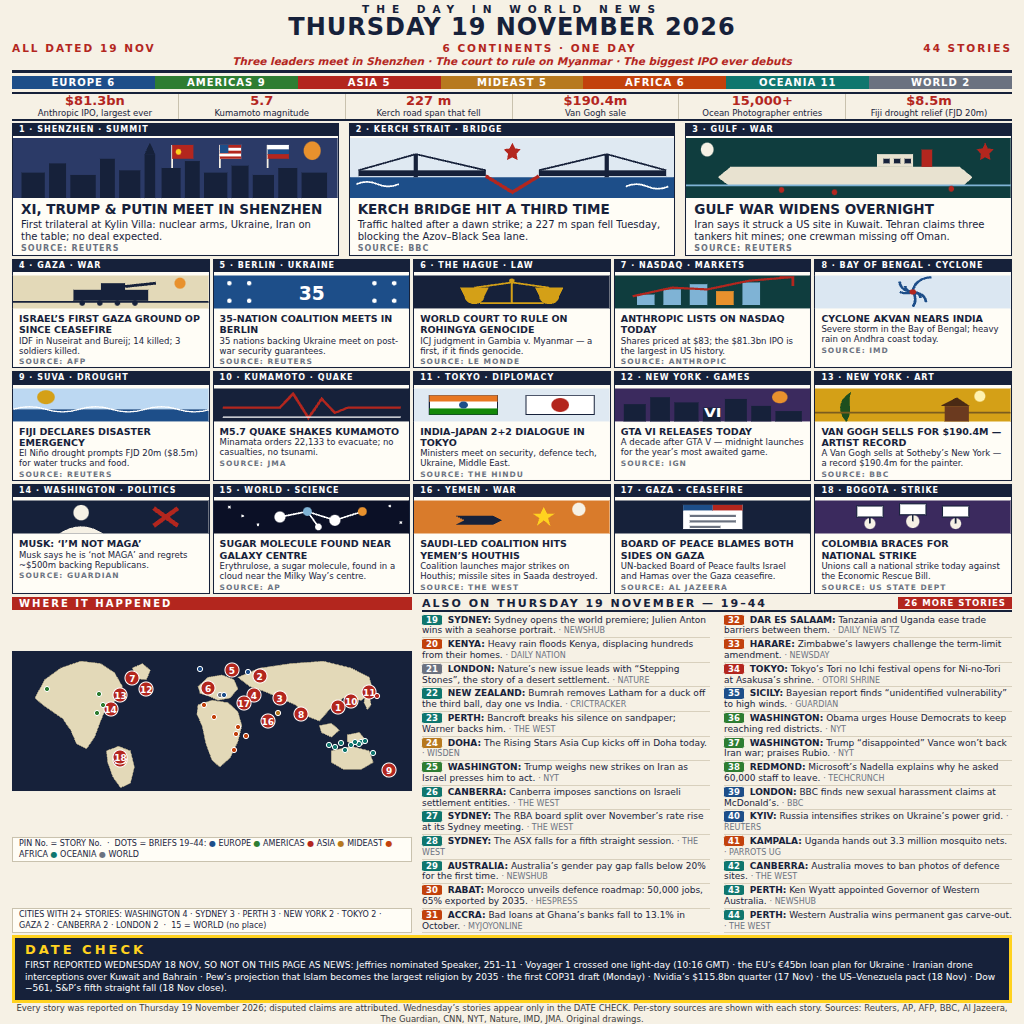
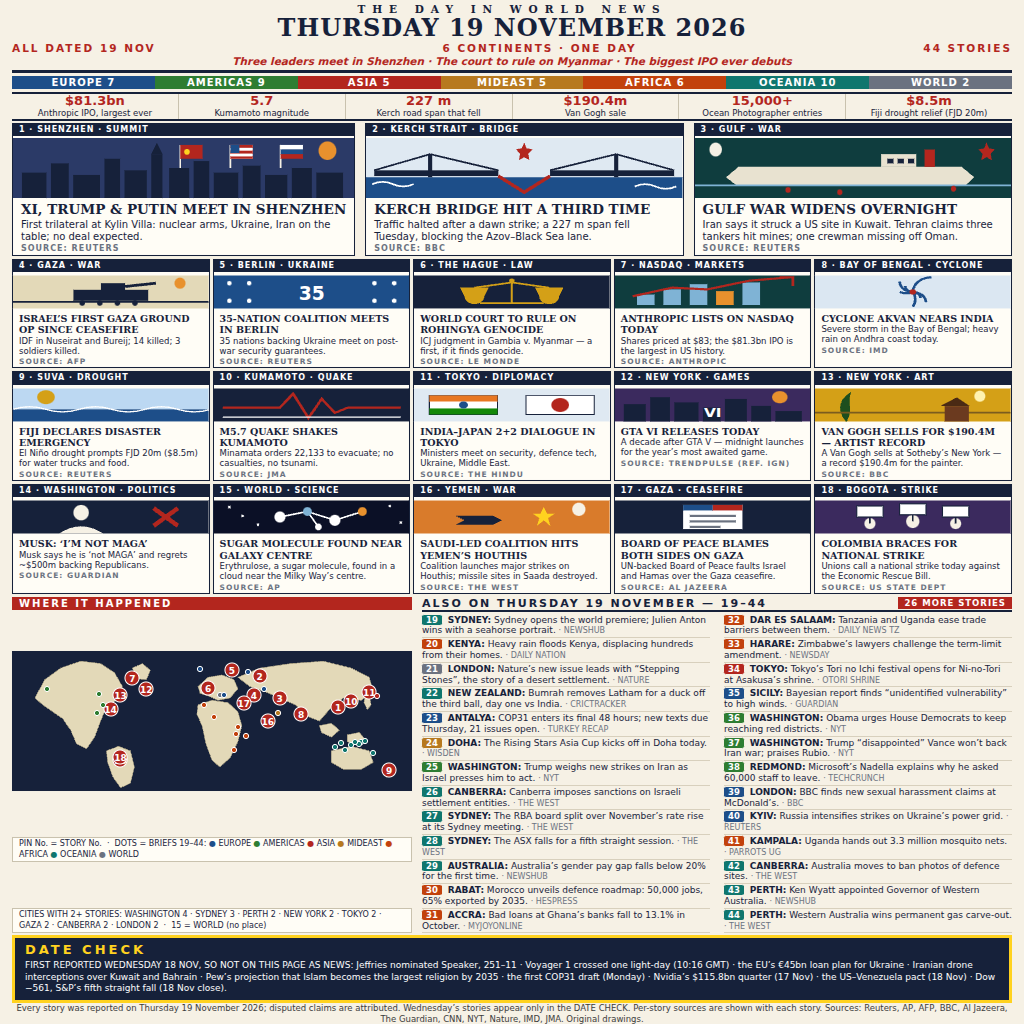
rev-9: COP31 in for brief #23 (Antalya), card 12 source TrendPulse (ref. IGN), serif headlines

diff --git a/render.html b/render.html
@@ -6,6 +6,7 @@
 <style>
 * { margin:0; padding:0; box-sizing:border-box; }
 body { width:1024px; height:1024px; background:#f6f1e5; color:#16213a; font-family:"DejaVu Sans",Arial,sans-serif; padding:3px 12px 1px; }
+.kicker, h1.date, .lead h2, .feat h3 { font-family:"DejaVu Serif", Georgia, "Times New Roman", serif; }
 .masthead { text-align:center; border-bottom:3px solid #16213a; padding-bottom:3px; }
 .kicker { font-size:10.5px; letter-spacing:7px; font-weight:bold; }
 h1.date { font-size:24px; line-height:1.05; letter-spacing:1px; font-weight:900; }
@@ -62,7 +63,7 @@ h1.date { font-size:24px; line-height:1.05; letter-spacing:1px; font-weight:900;
   <div class="subtitle">Three leaders meet in Shenzhen &middot; The court to rule on Myanmar &middot; The biggest IPO ever debuts</div>
 </div>
 
-<div class="regions"><span style="background:#1d4e89">EUROPE 6</span><span style="background:#2e7d32">AMERICAS 9</span><span style="background:#b3261e">ASIA 5</span><span style="background:#b7791f">MIDEAST 5</span><span style="background:#c2410c">AFRICA 6</span><span style="background:#0f766e">OCEANIA 11</span><span style="background:#6b7280">WORLD 2</span></div>
+<div class="regions"><span style="background:#1d4e89">EUROPE 7</span><span style="background:#2e7d32">AMERICAS 9</span><span style="background:#b3261e">ASIA 5</span><span style="background:#b7791f">MIDEAST 5</span><span style="background:#c2410c">AFRICA 6</span><span style="background:#0f766e">OCEANIA 10</span><span style="background:#6b7280">WORLD 2</span></div>
 
 <div class="numbers">
   <div class="num-cell"><div class="v">$81.3bn</div><div class="l">Anthropic IPO, largest ever</div></div>
@@ -159,7 +160,7 @@ h1.date { font-size:24px; line-height:1.05; letter-spacing:1px; font-weight:900;
     <div class="illus"><svg width="100%" height="36" viewBox="0 0 178 30"><g transform="scale(1,0.789)"><rect x="0" y="0" width="178" height="38" fill="#3b2a5e"/><circle cx="150" cy="10" r="7" fill="#e8912d"/><g fill="#16213a"><rect x="8" y="18" width="20" height="20"/><rect x="32" y="10" width="18" height="28"/><rect x="54" y="16" width="22" height="22"/><rect x="80" y="22" width="16" height="16"/><rect x="100" y="12" width="20" height="26"/><rect x="124" y="20" width="18" height="18"/><rect x="146" y="26" width="24" height="12"/></g><text x="89" y="33" font-size="14" font-weight="bold" fill="#fff" text-anchor="middle">VI</text></g></svg></div>
     <h3>GTA VI RELEASES TODAY</h3>
     <p>A decade after GTA V &mdash; midnight launches for the year&rsquo;s most awaited game.</p>
-    <div class="src">SOURCE: IGN</div>
+    <div class="src">SOURCE: TRENDPULSE (REF. IGN)</div>
   </div>
   <div class="feat">
     <div class="strip">13 &middot; NEW YORK &middot; ART</div>
@@ -245,7 +246,7 @@ h1.date { font-size:24px; line-height:1.05; letter-spacing:1px; font-weight:900;
       <div class="dot" style="left:56.5%;top:54.0%;background:#c2410c"></div>
       <div class="dot" style="left:52.0%;top:31.0%;background:#6b7280"></div>
       <div class="dot" style="left:90.5%;top:73.0%;background:#0f766e"></div>
-      <div class="dot" style="left:79.5%;top:67.0%;background:#0f766e"></div>
+      <div class="dot" style="left:63.0%;top:27.0%;background:#1d4e89"></div>
       <div class="dot" style="left:66.5%;top:44.0%;background:#b7791f"></div>
       <div class="dot" style="left:22.5%;top:38.0%;background:#2e7d32"></div>
       <div class="dot" style="left:85.0%;top:67.5%;background:#0f766e"></div>
@@ -269,7 +270,7 @@ h1.date { font-size:24px; line-height:1.05; letter-spacing:1px; font-weight:900;
       <div class="dot" style="left:82.5%;top:66.0%;background:#0f766e"></div>
     </div>
     <div class="map-legend">PIN No. = STORY No. &nbsp;&middot;&nbsp; DOTS = BRIEFS 19&ndash;44: <span style="color:#1d4e89">&#9679;</span> EUROPE <span style="color:#2e7d32">&#9679;</span> AMERICAS <span style="color:#b3261e">&#9679;</span> ASIA <span style="color:#b7791f">&#9679;</span> MIDEAST <span style="color:#c2410c">&#9679;</span> AFRICA <span style="color:#0f766e">&#9679;</span> OCEANIA <span style="color:#6b7280">&#9679;</span> WORLD</div>
-    <div class="cities">CITIES WITH 2+ STORIES: WASHINGTON 4 &middot; SYDNEY 3 &middot; PERTH 3 &middot; NEW YORK 2 &middot; TOKYO 2 &middot; GAZA 2 &middot; CANBERRA 2 &middot; LONDON 2 &nbsp;&middot;&nbsp; 15 = WORLD (no place)</div>
+    <div class="cities">CITIES WITH 2+ STORIES: WASHINGTON 4 &middot; SYDNEY 3 &middot; PERTH 2 &middot; NEW YORK 2 &middot; TOKYO 2 &middot; GAZA 2 &middot; CANBERRA 2 &middot; LONDON 2 &nbsp;&middot;&nbsp; 15 = WORLD (no place)</div>
   </div>
   <div class="briefcol">
     <div class="briefs-head">ALSO ON THURSDAY 19 NOVEMBER &mdash; 19&ndash;44<span class="tag">26 MORE STORIES</span></div>
@@ -279,7 +280,7 @@ h1.date { font-size:24px; line-height:1.05; letter-spacing:1px; font-weight:900;
         <div class="brief"><span class="chip" style="background:#c2410c">20</span> <b>KENYA:</b> Heavy rain floods Kenya, displacing hundreds from their homes. <span class="src">&middot; DAILY NATION</span></div>
         <div class="brief"><span class="chip" style="background:#6b7280">21</span> <b>LONDON:</b> Nature&rsquo;s new issue leads with &ldquo;Stepping Stones&rdquo;, the story of a desert settlement. <span class="src">&middot; NATURE</span></div>
         <div class="brief"><span class="chip" style="background:#0f766e">22</span> <b>NEW ZEALAND:</b> Bumrah removes Latham for a duck off the third ball, day one vs India. <span class="src">&middot; CRICTRACKER</span></div>
-        <div class="brief"><span class="chip" style="background:#0f766e">23</span> <b>PERTH:</b> Bancroft breaks his silence on sandpaper; Warner backs him. <span class="src">&middot; THE WEST</span></div>
+        <div class="brief"><span class="chip" style="background:#1d4e89">23</span> <b>ANTALYA:</b> COP31 enters its final 48 hours; new texts due Thursday, 21 issues open. <span class="src">&middot; TURKEY RECAP</span></div>
         <div class="brief"><span class="chip" style="background:#b7791f">24</span> <b>DOHA:</b> The Rising Stars Asia Cup kicks off in Doha today. <span class="src">&middot; WISDEN</span></div>
         <div class="brief"><span class="chip" style="background:#2e7d32">25</span> <b>WASHINGTON:</b> Trump weighs new strikes on Iran as Israel presses him to act. <span class="src">&middot; NYT</span></div>
         <div class="brief"><span class="chip" style="background:#0f766e">26</span> <b>CANBERRA:</b> Canberra imposes sanctions on Israeli settlement entities. <span class="src">&middot; THE WEST</span></div>

diff --git a/RESEARCH.md b/RESEARCH.md
@@ -2,6 +2,15 @@
 
 Every story below was reported on Thursday 19 November 2026 (event happened or
 was first reported that day, any time zone). One fact per line, with its source.
+Revisi ke-9 (19 Nov ~16:30 WIB): brief #23 = COP31 Antalya (pengganti Bancroft,
+Perth — Oseania terlemah); COP31 TERVERIFIKASI Kamis 19 Nov (teks baru due Kamis
+pagi, sidang pleno penutup mulai Kamis, 21 isu belum selesai; draft usulkan
+adaptation finance ≥$120bn/tahun pada 2035 — BUKAN "dana $120bn"; framing
+"ministers take over" TIDAK dipakai — itu Selasa 17 Nov). Sumber: Turkey Recap
+19 Nov 06:11 UTC, UN News 18 Nov 14:04 EST. Card 12 sumber dikoreksi jadi
+TrendPulse (ref. IGN). Judul (masthead + judul kartu) kini serif ala koran.
+Bar region: EUROPE 7, OCEANIA 10; total tetap 44; PERTH 3→2.
+
 Revisi ke-2 (19 Nov ~12:00 WIB): total 44 cerita (bukan 45) — Jeffries (#7 lama)
 dan Voyager (#16 lama) dipindah ke DATE CHECK setelah diverifikasi beritanya
 Rabu 18 Nov; Ocean Photographer of the Year ditambahkan sebagai kartu #19;
@@ -83,7 +92,13 @@ ulang dari label kota di gambar.
 22. Bumrah removes Latham for a duck off the third ball, day one of the first
     India–New Zealand Test (New Zealand — venue tidak terverifikasi, label
     negara dipakai). Source: CricTracker.
-23. Bancroft opens up on sandpaper; Warner backs him (Perth). Source: The West Australian.
+23. COP31 enters its final 48 hours — new draft texts due Thursday, 21 issues
+    open, closing plenary begins (Antalya). Sources: Turkey Recap 19 Nov
+    06:11 UTC, UN News 18 Nov 14:04 EST. (Ditambahkan di revisi ke-9;
+    pengganti Bancroft #23 lama — wawancara soal skandal 2018, peg berita
+    paling lemah. Framing "ministers take over" TIDAK dipakai: itu Selasa
+    17 Nov. Angka "$120bn" TIDAK dipakai sebagai dana: draft usulkan
+    adaptation finance ≥$120bn/tahun pada 2035.)
 24. Rising Stars Asia Cup opens in Doha. Source: Wisden.
 25. Trump weighs new strikes on Iran as Israel urges action (Washington).
     Source: NYT.
@@ -132,12 +147,12 @@ ulang dari label kota di gambar.
 ## Coverage
 
 44 stories, 6 continents + world (wilayah = lokasi peristiwa):
-EUROPE 6 (2, 5, 6, 35, 39, 40) · AMERICAS 9 (7, 12, 13, 14, 18, 25, 36, 37, 38)
+EUROPE 7 (2, 5, 6, 23, 35, 39, 40) · AMERICAS 9 (7, 12, 13, 14, 18, 25, 36, 37, 38)
 · ASIA 5 (1, 8, 10, 11, 34) · MIDEAST 5 (3, 4, 16, 17, 24) ·
-AFRICA 6 (20, 30, 31, 32, 33, 41) · OCEANIA 11 (9, 19, 22, 23, 26, 27, 28, 29,
-42, 43, 44) · WORLD 2 (15, 21). Total 6+9+5+5+6+11+2 = 44.
+AFRICA 6 (20, 30, 31, 32, 33, 41) · OCEANIA 10 (9, 19, 22, 26, 27, 28, 29,
+42, 43, 44) · WORLD 2 (15, 21). Total 7+9+5+5+6+10+2 = 44.
 Masthead "44 STORIES" = jumlah aktual di gambar. Kota dengan 2+ cerita (dari
-label kota di gambar): WASHINGTON 4 · SYDNEY 3 · PERTH 3 · NEW YORK 2 ·
+label kota di gambar): WASHINGTON 4 · SYDNEY 3 · PERTH 2 · NEW YORK 2 ·
 TOKYO 2 · GAZA 2 · CANBERRA 2 · LONDON 2.
 
 ## Deliberately left out
@@ -157,3 +172,10 @@ hire (18 Nov), Elton John ARIA speech (18 Nov), SA–Bangladesh Test (mulai
 (18 Nov), Florida pastor Sanon convicted (18 Nov), OFAC Hezbollah sanctions
 (18 Nov), Pakistan petrol cut (18 Nov), Panama second arrest (18 Nov),
 Port of Darwin / Albanese–Xi meeting (18 Nov).
+Riset 6 cerita besar (19 Nov ~15:20 WIB, perintah user): 4 cerita yang dibawa
+top-10 TERVERIFIKASI Rabu 18 Nov dan SENGAJA TIDAK ditambahkan (lapangan salah
+tanggal): Mélenchon (Reuters 18 Nov 10:12 UTC), cocaine Libya (Reuters 18 Nov
+08:34 UTC; Derna, bukan Benghazi), Florida floods (CNN 18 Nov; hujan Selasa
+malam → Rabu pagi), Duckett 133 (match Rabu 18 Nov, Hobart bukan Sydney).
+APEC Shenzhen Declaration: TIDAK TAHU (adopsi ditargetkan Kamis, belum
+terkonfirmasi) — tidak ditambahkan.
